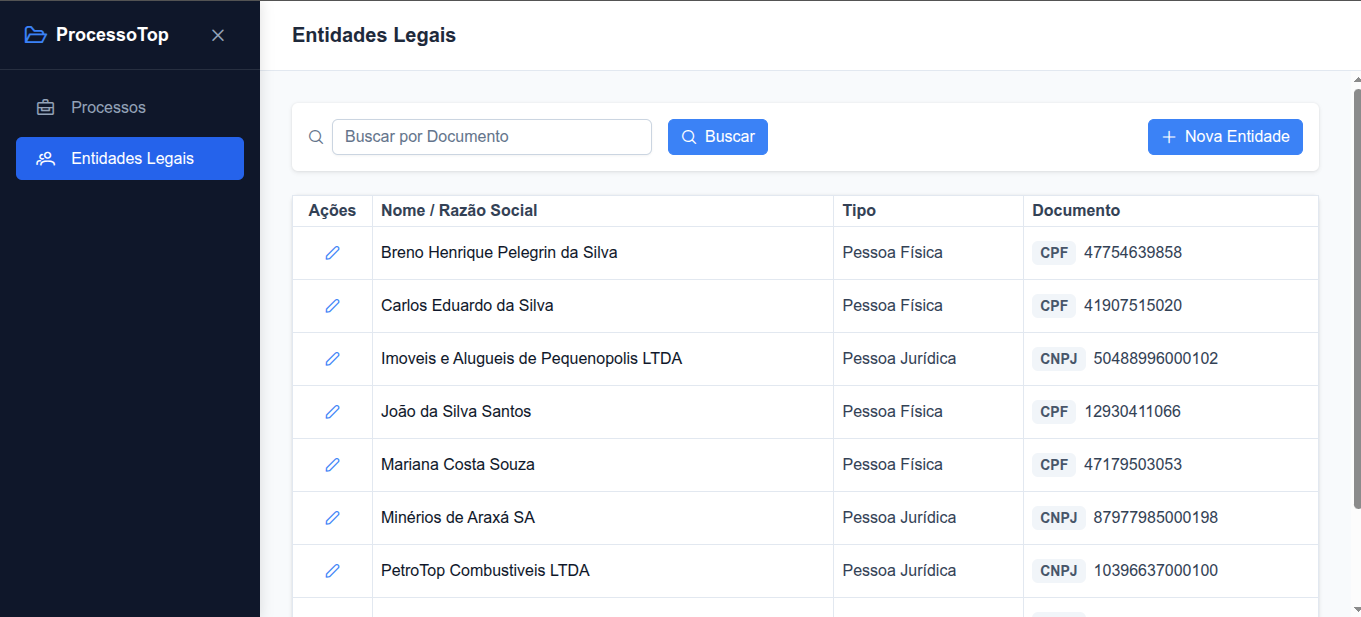
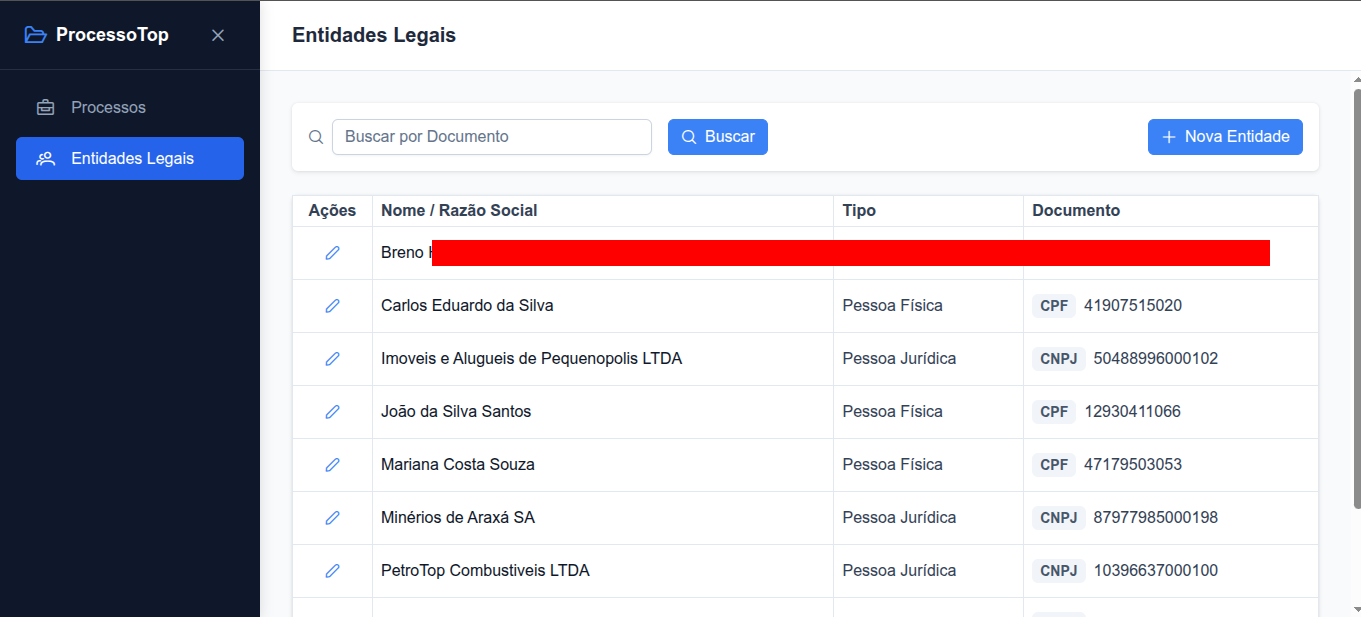
docs: add README.md do frontend, fix imagem da tela

Changed region(s): [[0.3086, 0.3695, 0.9566, 0.4311]]

diff --git a/frontend/README.md b/frontend/README.md
@@ -1,59 +1,48 @@
-# Frontend
+# ProcessoTop - Frontend
 
-This project was generated using [Angular CLI](https://github.com/angular/angular-cli) version 20.3.33.
+Este é o frontend do sistema ProcessoTop, responsável por toda a interface de gerenciamento de processos, andamentos e partes.
 
-## Development server
+## Tecnologias e Bibliotecas Usadas
 
-To start a local development server, run:
+- **Angular 20**: O framework usado, rodando com a abordagem de Standalone Components (sem NgModules).
+- **PrimeNG**: Biblioteca de componentes de UI.
+- **PrimeFlex**: Classes utilitárias de CSS no estilo do Tailwind.
+- **Angular Reactive Forms**: Usado para construir os formulários de cadastro e aplicar validações.
+- **RxJS**: Controle do fluxo das requisições para a API e reatividade de componentes.
 
-```bash
-ng serve
+## Estrutura de Diretórios
+
+O projeto foi organizado de forma modular, priorizando a divisão por contexto de negócio (Features) e separando os componentes que fazem lógica mais complexa dos componentes puramente visuais (Smart vs Dumb Components).
+
+```text
+src/app/
+├── core/         # Serviços - interceptor de errors global
+├── features/     # Páginas e fluxos principais
+│   ├── entidades-legais/
+│   └── processos/
+└── shared/       # Componentes simples e reutilizáveis
+    ├── components/         # Formulários, tags, botões, etc
+    └── ui/                 # Componentes de layout - menu, header, etc
 ```
 
-Once the server is running, open your browser and navigate to `http://localhost:4200/`. The application will automatically reload whenever you modify any of the source files.
+## Como Rodar
 
-## Code scaffolding
+A maneira recomendada e mais fácil de rodar o projeto inteiro (banco de dados, API e frontend) é utilizando o Docker Compose. 
 
-Angular CLI includes powerful code scaffolding tools. To generate a new component, run:
+As instruções de como rodar com Docker estão no **[README principal](../README.md)**.
 
-```bash
-ng generate component component-name
-```
 
-For a complete list of available schematics (such as `components`, `directives`, or `pipes`), run:
+### Rodando o Frontend isoladamente (Node)
 
-```bash
-ng generate --help
-```
+Caso queira subir apenas a interface gráfica direto na sua máquina (sem Docker):
 
-## Building
+1. Dentro desta pasta `frontend`, instale as dependências:
+   ```bash
+   npm install
+   ```
+2. Inicie o servidor de desenvolvimento:
+   ```bash
+   npm start
+   ```
 
-To build the project run:
-
-```bash
-ng build
-```
-
-This will compile your project and store the build artifacts in the `dist/` directory. By default, the production build optimizes your application for performance and speed.
-
-## Running unit tests
-
-To execute unit tests with the [Karma](https://karma-runner.github.io) test runner, use the following command:
-
-```bash
-ng test
-```
-
-## Running end-to-end tests
-
-For end-to-end (e2e) testing, run:
-
-```bash
-ng e2e
-```
-
-Angular CLI does not come with an end-to-end testing framework by default. You can choose one that suits your needs.
-
-## Additional Resources
-
-For more information on using the Angular CLI, including detailed command references, visit the [Angular CLI Overview and Command Reference](https://angular.dev/tools/cli) page.
+*(O servidor subirá em `http://localhost:4200` e tentará se comunicar com a API mapeada nas `environments`)*.
